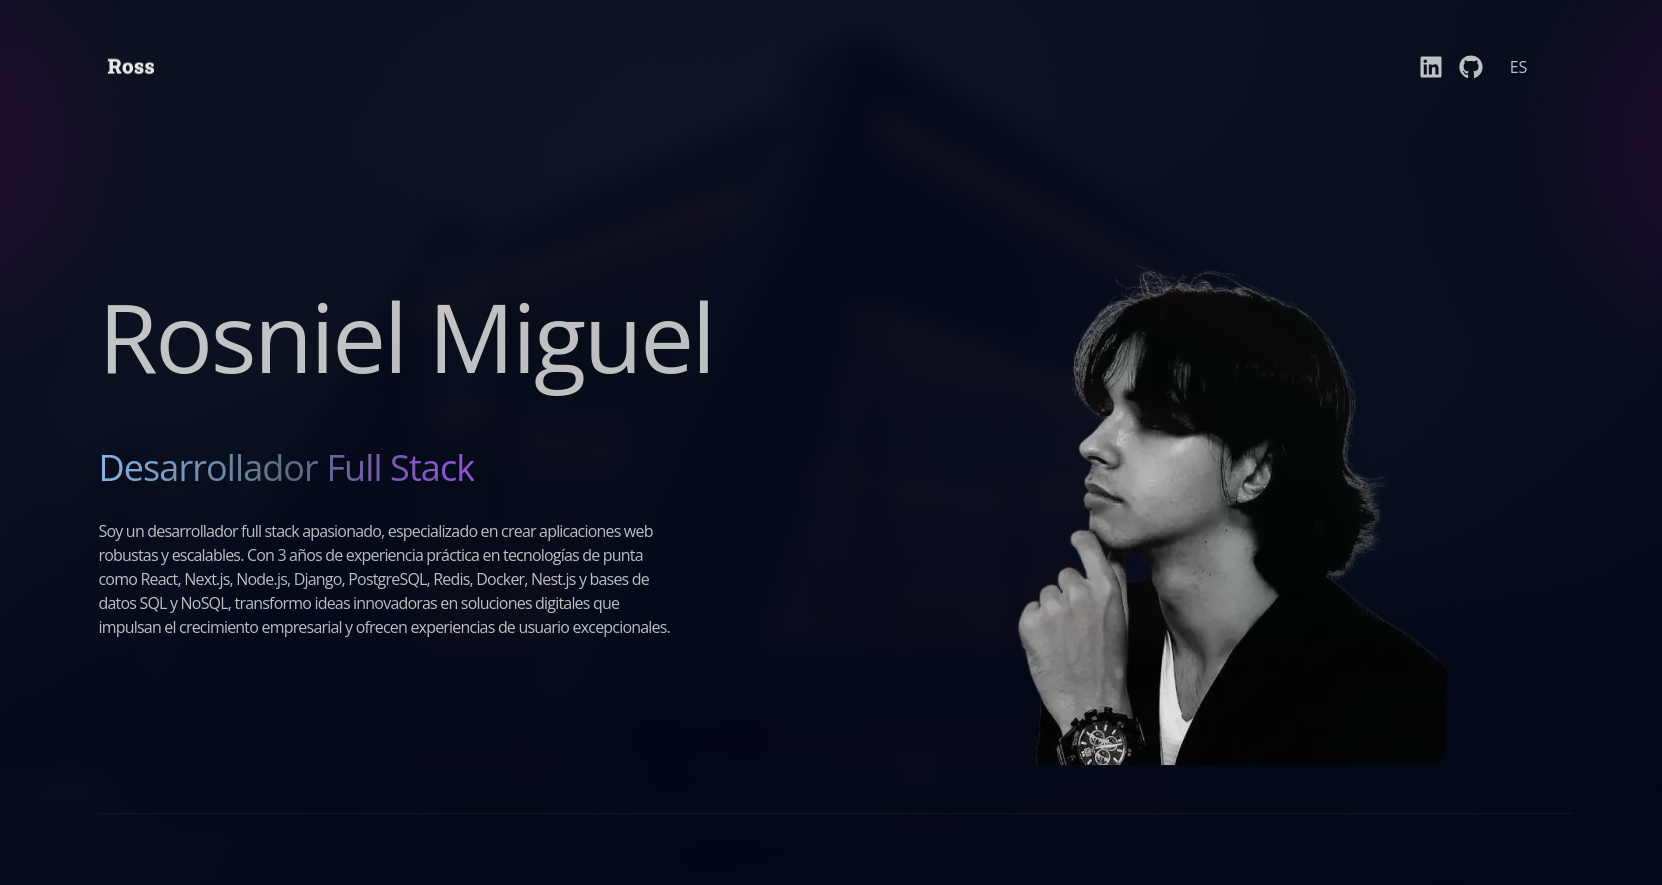
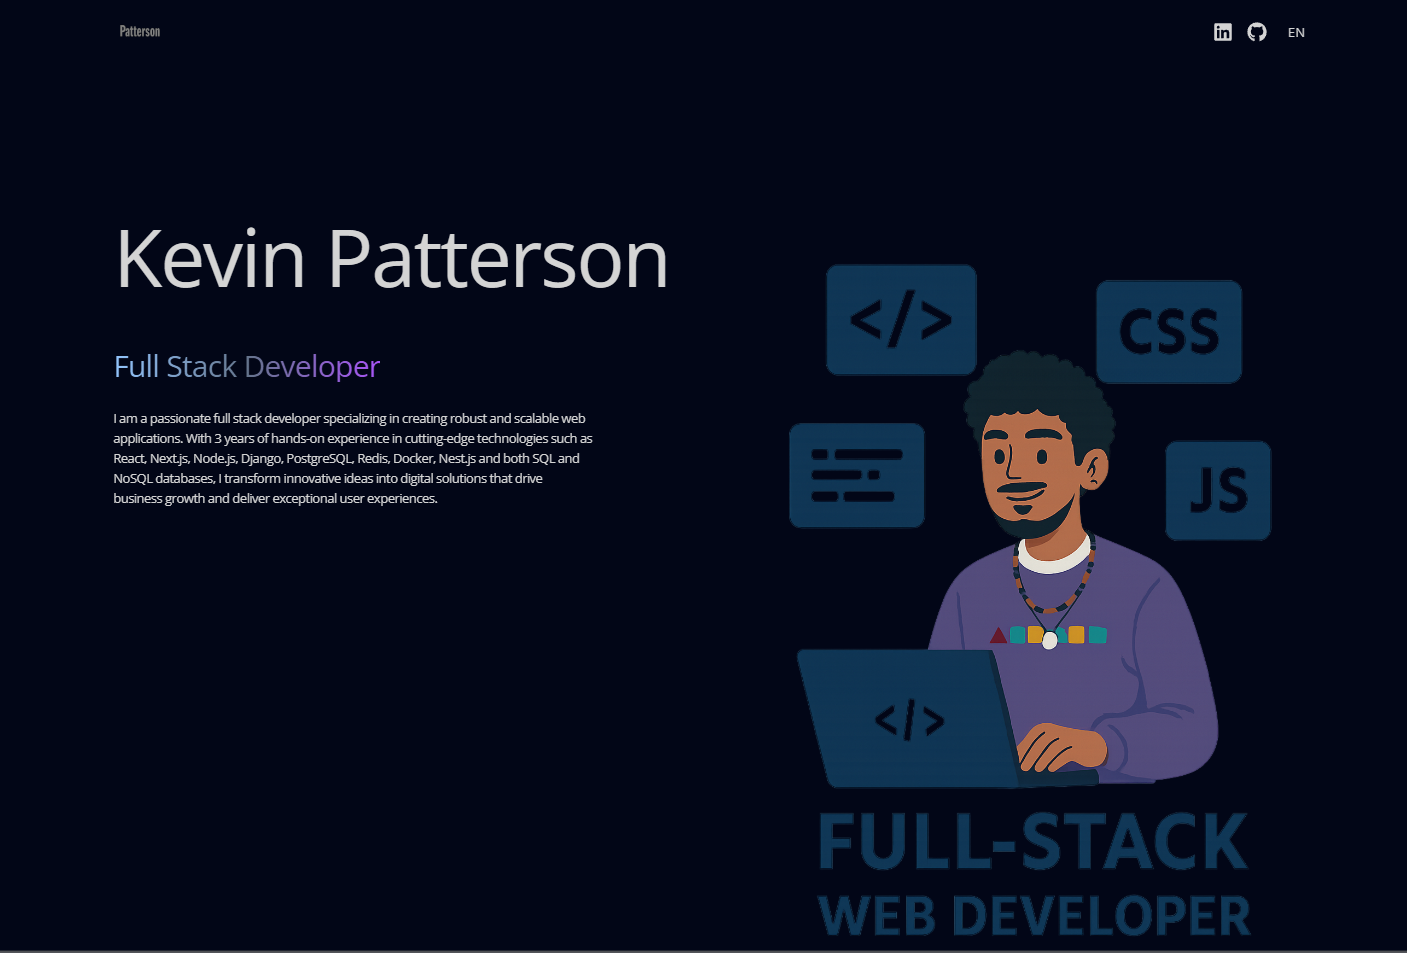
Update

diff --git a/src/components/main/Hero.tsx b/src/components/main/Hero.tsx
@@ -1,4 +1,4 @@
-import profilePic from "../../assets/user/Profile.webp"
+import profilePic from "../../assets/user/Profile.png"
 import {motion} from "framer-motion"
 import { useTranslation} from "../../context/LanguajeContext"
 
@@ -44,7 +44,7 @@ const Hero: React.FC = () => {
       initial={{opacity: 0, x: 100}}
       animate={{opacity: 1, x: 0}}
       transition={{duration: 1, delay: 1.2}}
-      src={profilePic} alt="profile" className="object-cover w-50% h-50% rounded-2xl" />
+      src={profilePic} alt="profile" className="object-cover w-30% h-30% rounded-2xl" />
     </div>
       </div>
       </div>

diff --git a/src/components/nav/Navbar.tsx b/src/components/nav/Navbar.tsx
@@ -1,7 +1,7 @@
 import React from 'react';
 import { FaLinkedin, FaGithub } from 'react-icons/fa';
 import { motion, AnimatePresence } from 'framer-motion';
-import logo from '../../assets/logo-dark.svg';
+import logo from '../../assets/logo.png';
 import { useTranslation } from '../../context/LanguajeContext';
 
 const Navbar = () => {

diff --git a/src/components/main/About.tsx b/src/components/main/About.tsx
@@ -1,5 +1,5 @@
 import React from "react";
-import AboutPic from "../../assets/user/about.webp";
+import AboutPic from "../../assets/user/about.jpg";
 import { motion } from "framer-motion";
 import { useTranslation } from "../../context/LanguajeContext";
 

diff --git a/README.md b/README.md
@@ -2,7 +2,7 @@
 <br />
 <div align="center">
   <a href="https://portfolio-ross.vercel.app/">
-    <img src="src/assets/logo-dark.svg" alt="Logo" width="120" height="120">
+    <img src="src/assets/logo.png" alt="Logo" width="120" height="120">
   </a>
 
   <h3 align="center">Patterson Portfolio Template</h3>
